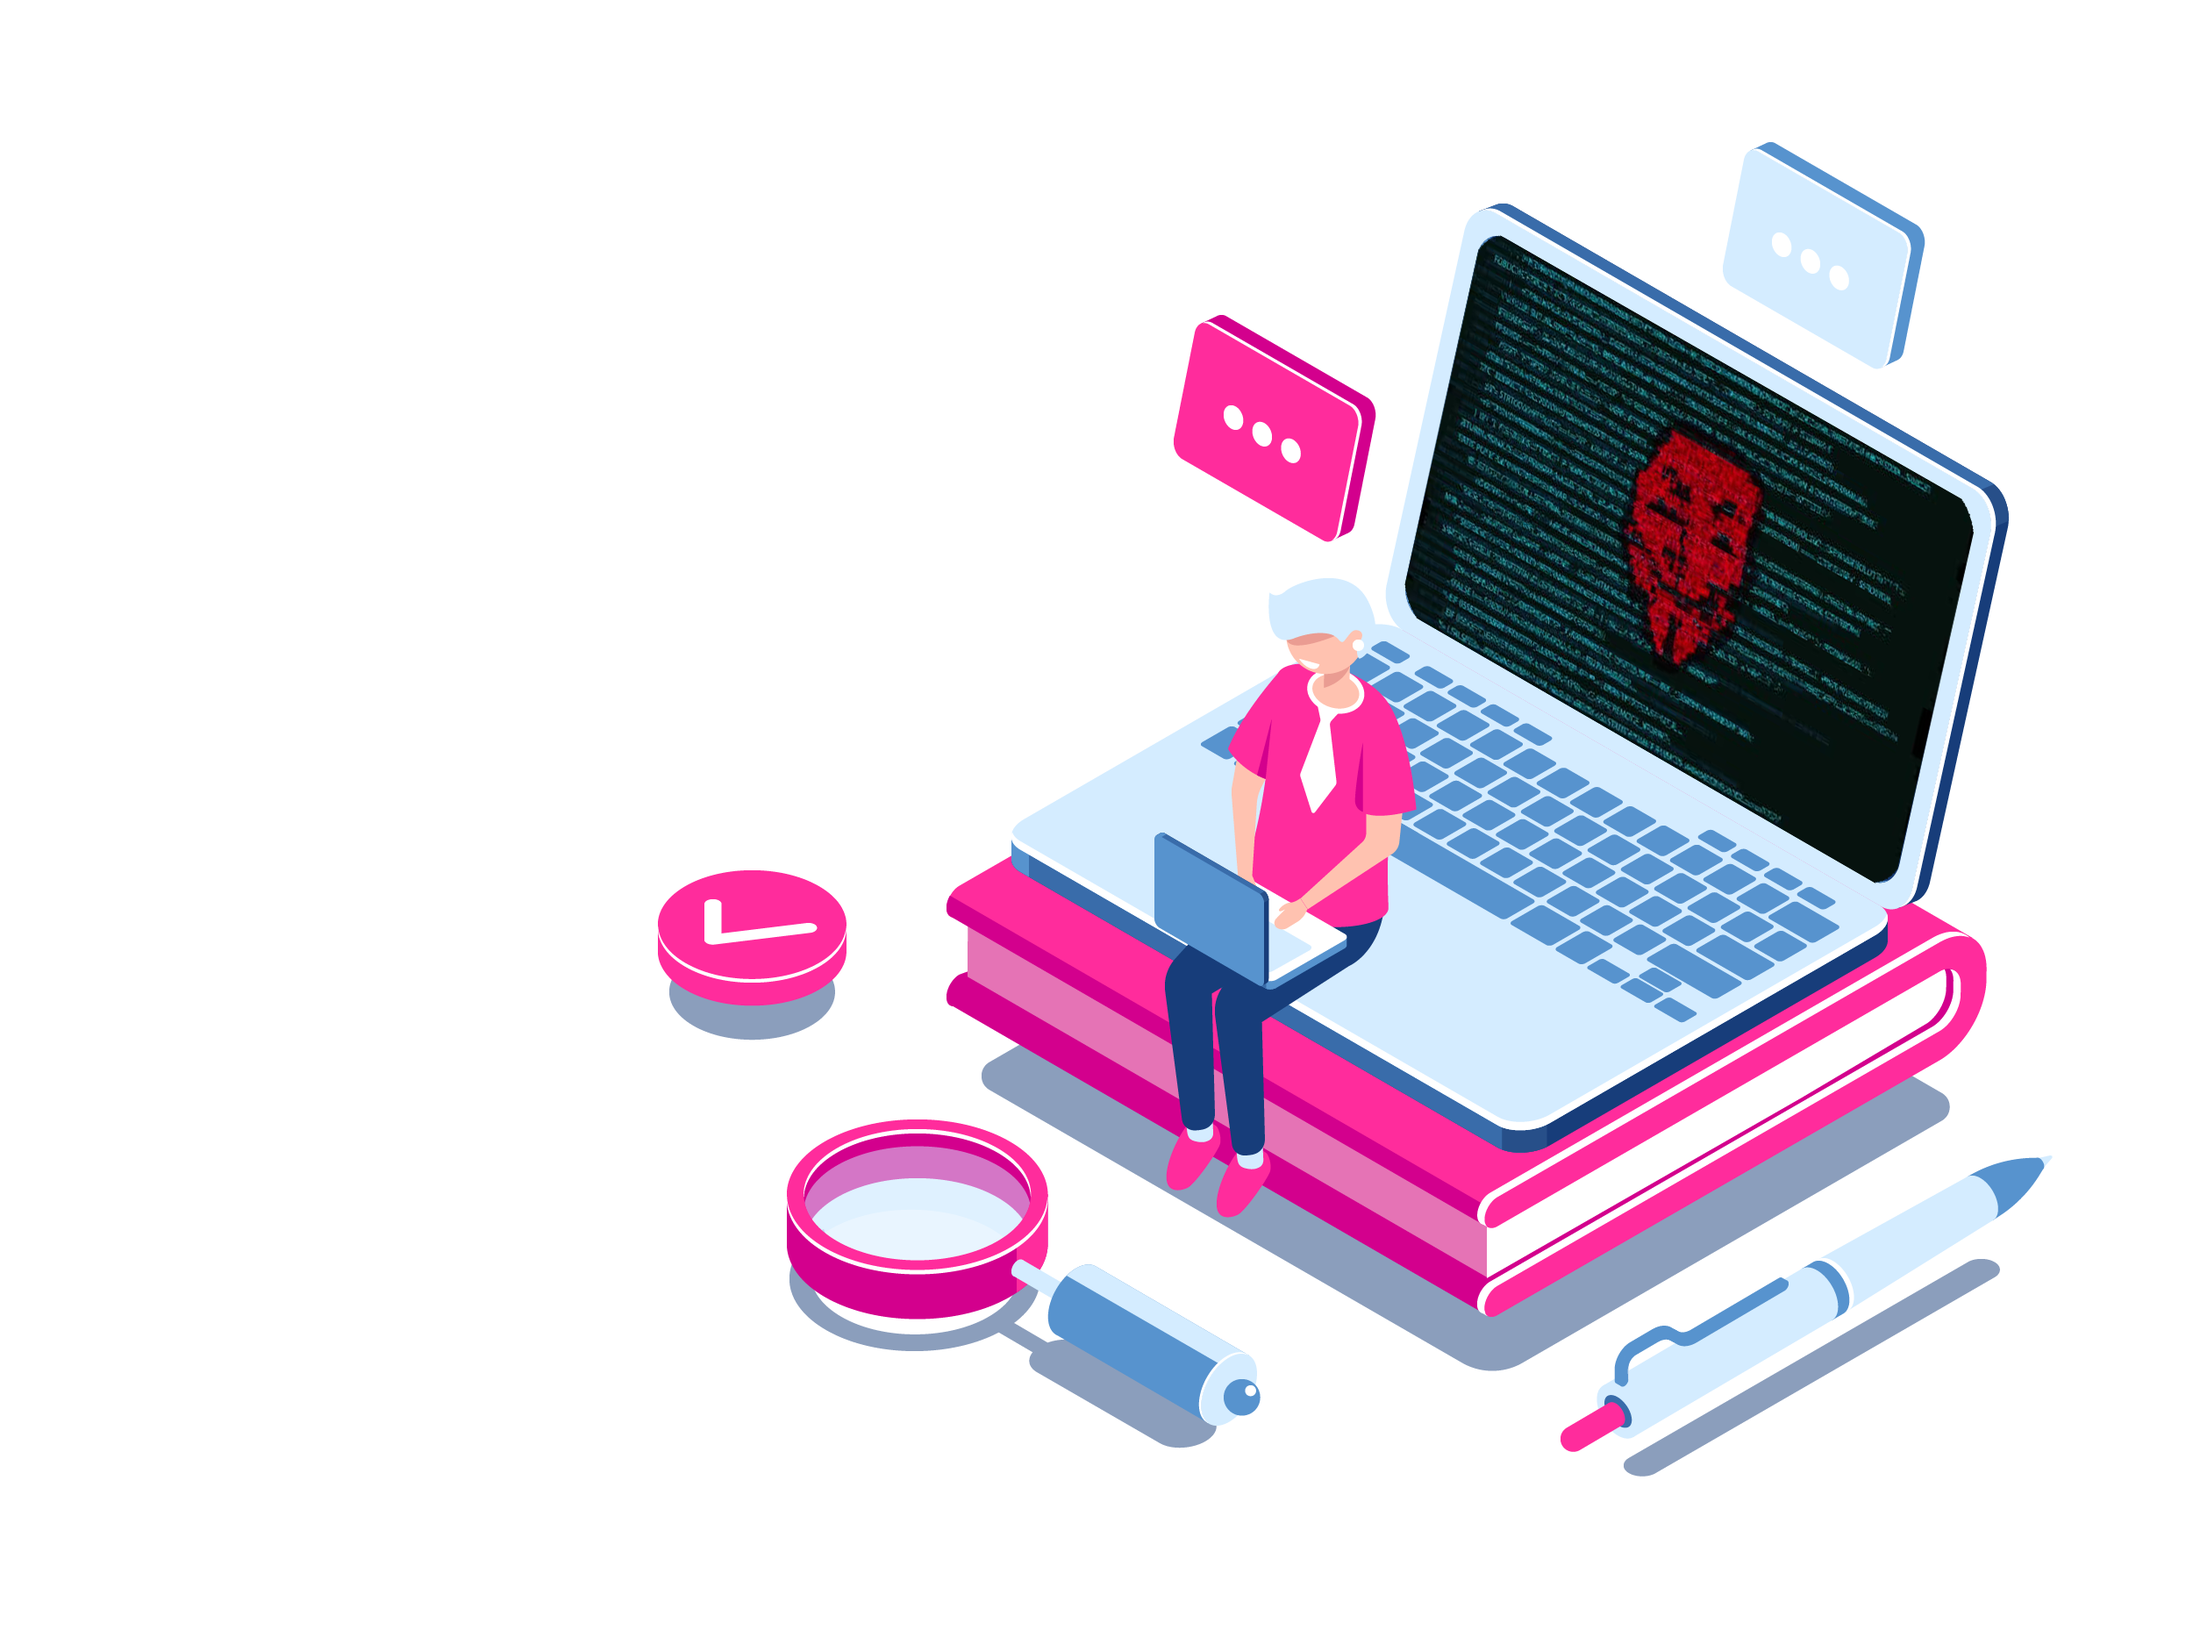
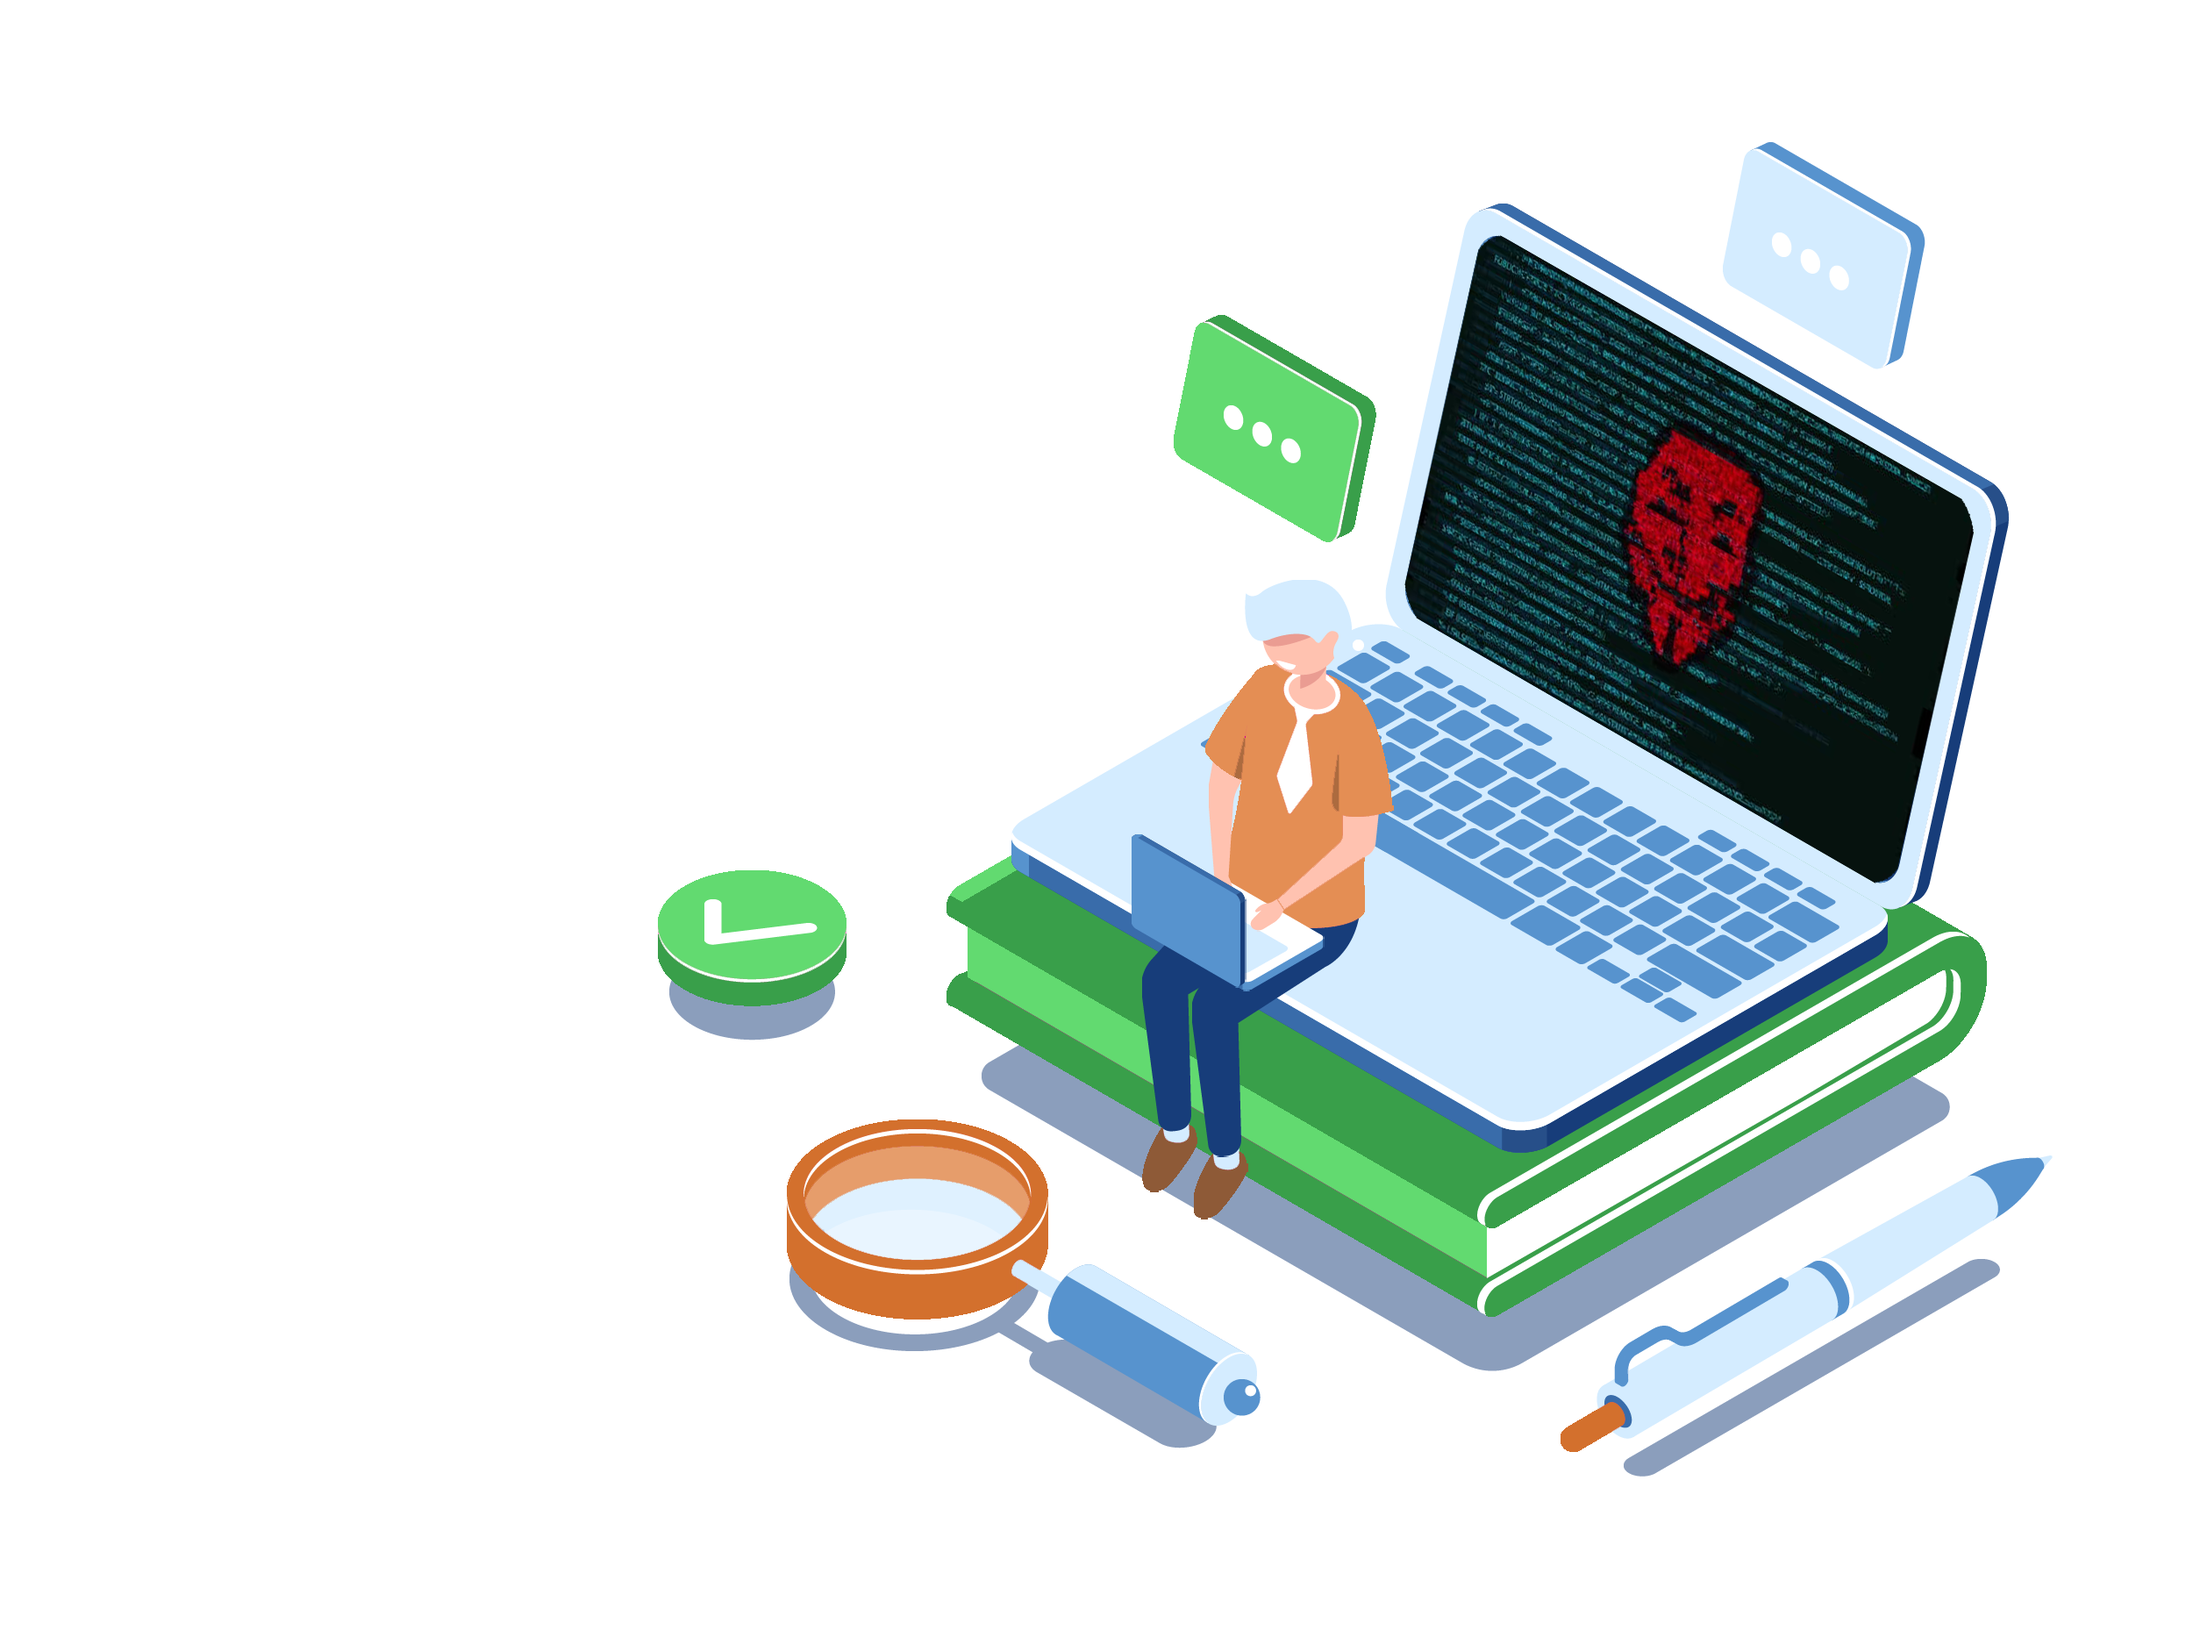
Changed fishingLesson ul

Changed region(s): [[0.3432, 0.1856, 0.9048, 0.8043], [0.2808, 0.5259, 0.4056, 0.6187], [0.7176, 0.8352, 0.7488, 0.8971]]

diff --git a/public/css/main.css b/public/css/main.css
@@ -2,17 +2,19 @@
 @import url("./inputPassword.css");
 @import url("./passwordPage.css");
 
-.password-section__main-text{
+.password-section__main-text {
     text-align: justify;
     font-size: 18px;
 }
-.password-section__subtitle{
+
+.password-section__subtitle {
     color: #61da70;
     font-weight: bold;
     text-transform: uppercase;
     font-size: 20px;
     margin-bottom: 3%;
 }
+
 body {
     background: #f3ffdc;
 
@@ -20,50 +22,54 @@ body {
     margin: auto;
 }
 
-nav{
+nav {
     background: white;
-    border-bottom-color: black; 
+    border-bottom-color: black;
     color: black;
 }
 
-.navlink{
+.navlink {
     color: #61da70;
     font-weight: bold;
     text-transform: uppercase;
 }
-.fishingform{
+
+.fishingform {
     background: white;
     margin-top: 5%;
     margin-bottom: 5%;
     padding: 5%;
     border-radius: 1%;
-    box-shadow: 1px 6px 6px 1px #ccc; 
+    box-shadow: 1px 6px 6px 1px #ccc;
     padding-bottom: 10%;
-    padding-right:10%; 
-    padding-left:10%;  
+    padding-right: 10%;
+    padding-left: 10%;
 }
 
-.page-footer{
+.page-footer {
     background: #f3ffdc;
     color: #61da70;
     font-weight: bold;
 }
 
-.copyright{
-    color: #61da70; 
-    margin-top: 5%; 
+.copyright {
+    color: #61da70;
+    margin-top: 5%;
     margin-bottom: 5%;
-    
+
 }
-::placeholder{
-    color:#61da70;
+
+::placeholder {
+    color: #61da70;
     font-weight: bold;
     text-transform: uppercase;
 }
-.title{
+
+.title {
     text-transform: uppercase;
     font-weight: bold;
 }
+
 /*  Мои стили*/
 
 .top-navbar a {
@@ -95,46 +101,50 @@ nav{
     height: 100vh;
 }
 
-.impact{
+.impact {
     text-align: center;
     font-weight: bold;
     text-transform: uppercase;
     font-size: 18px;
 }
 
-.reg-form{
+.reg-form {
     padding: 5%;
     background: white;
     margin-top: 5%;
     margin-bottom: 5%;
     border-radius: 1%;
-    box-shadow: 1px 6px 6px 1px #ccc; 
+    box-shadow: 1px 6px 6px 1px #ccc;
 }
-.adv-form{
+
+.adv-form {
     background: white;
     width: 100%;
     padding: 10%;
     border-radius: 1%;
-    box-shadow: 1px 6px 6px 1px #ccc; 
+    box-shadow: 1px 6px 6px 1px #ccc;
 }
-.title-fish{
+
+.title-fish {
     text-align: center;
-    margin-top: 10%; 
+    margin-top: 10%;
     font-weight: bold;
     text-transform: uppercase;
     margin-bottom: 10%;
 }
 
 .main-img-button {
-    background-color: #ff2c9c;
+    background-color: #61da70;
     border-radius: 10px;
     min-width: 170px;
+    font-weight: 800;
 }
-.reg-button{
-    background-color:#61da70;
+
+.reg-button {
+    background-color: #61da70;
     border-radius: 10px;
     margin-top: 5%;
-    min-width: 100px; 
+    min-width: 100px;
     font-weight: bold;
 }
 
@@ -225,10 +235,10 @@ nav a {
     font-size: 1rem;
 }
 
-.brand-logo.brand-logo__link.visible-score:hover::before {
+/* .brand-logo.brand-logo__link.visible-score:hover::before {
     -webkit-animation: swing-in-top-fwd 0.5s cubic-bezier(0.175, 0.885, 0.320, 1.275) both;
     animation: swing-in-top-fwd 0.5s cubic-bezier(0.175, 0.885, 0.320, 1.275) both;
-}
+} */
 
 /* ----------------------------------------------
  * Generated by Animista on 2019-6-30 9:34:43
@@ -240,8 +250,8 @@ nav a {
  * animation swing-in-top-fwd
  * ----------------------------------------
  */
-@-webkit-keyframes swing-in-top-fwd {
-    0% {
+/* @-webkit-keyframes swing-in-top-fwd {
+        0% {
         -webkit-transform: rotateX(-100deg);
         transform: rotateX(-100deg);
         -webkit-transform-origin: top;
@@ -274,7 +284,7 @@ nav a {
         transform-origin: top;
         opacity: 1;
     }
-}
+} */
 
 
 
